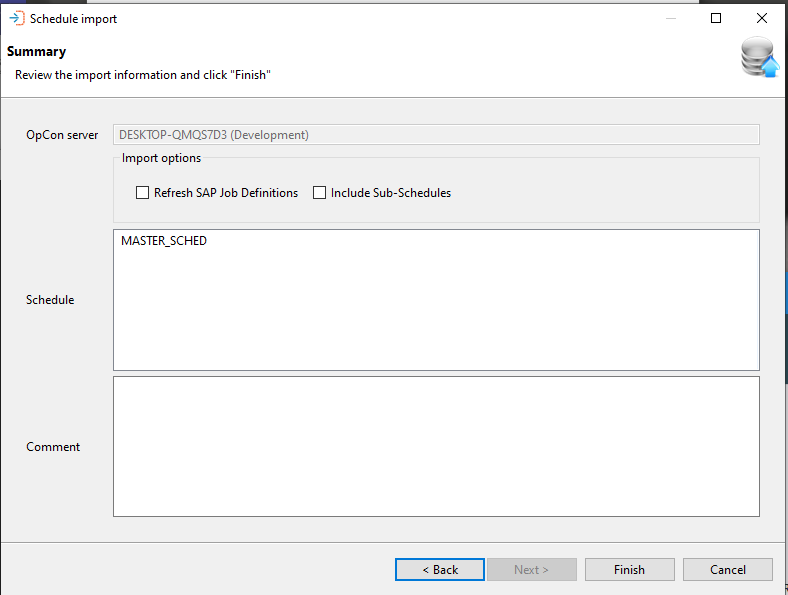
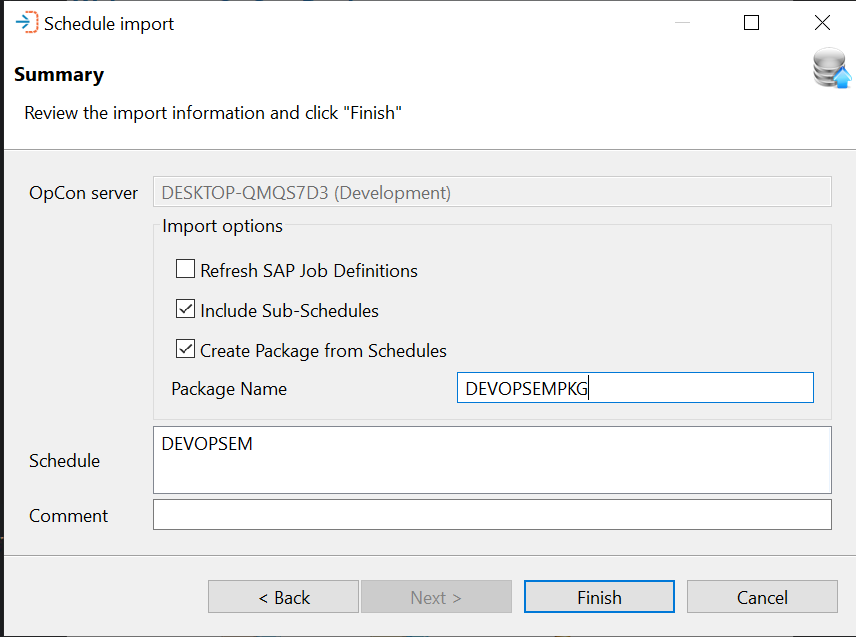
Deploy 25.1 documentation updates

Changed region(s): [[0.0, 0.0, 1.0, 1.0]]

diff --git a/docs/release-notes.md b/docs/release-notes.md
@@ -14,11 +14,42 @@ Deploy contains compatibility checks to ensure that features supported in newer 
 The ImpEx2 Server portion of Deploy is paired with each specific OpCon release and is part of the OpCon Release. Therefore the ImpEx2 
 server for each release is patched and released within the OpCon release cycles.   
 
+## Version 25.1
+
+2025 March
+
+**Migration Considerations**
+
+New rule **Exclude calendars from schedule deployment** removes calendar updates during the deployment process. The default value for the rule is false, so it will not have an impact on existing installations. Once this rule is enabled, the calendar definitions will no longer be included in the schedule definitions in the **calendarList** section.
+
+**New Features**
+
+:eight_spoked_asterisk: **OC-325**: Support new job type RPA. Due to the specific nature of the RPA scripts being associated with specific agents, the deploy process does not include the scripts in the deployment process.
+
+This requires 25.1.0 or greater.
+
+:eight_spoked_asterisk: **OPCDEPLOY-1398**: Added new fields on 'CheckInSummary' screen during schedule Import process to allow for the creation of a package from the selected schedules. The existing checkbox **Include Sub-Schedules** can be used to extract all sub-schedules associated with the selected schedules and included in the package.
+- **Create Package from Schedules** When selected creates a package from the list of imported schedules (requires Package Name).
+- **Package Name**                  The name of  the package to create.  
+
+:eight_spoked_asterisk: **OPCDEPLOY-1403**: Implemented new a new feature to prevent the update of calendars during the deployment process. 
+When this feature is enabled, calendars are no longer included in the schedule import and deployment processes. 
+
+For more information see **Exclude calendars from Schedule Deployment** rule in **settings** section.
+
+:eight_spoked_asterisk: **OPCDEPLOY-1405**: Added new argument '-noi' to Devops.SMAOpConDeployClient.exe client for the schedule and script EXPORT action. This option will prevent the exported schedule or script from being inserted into the Deploy database during the EXPORT action.
+
+:eight_spoked_asterisk: **OPCDEPLOY-1406**: Added new argument '-iss' to Devops.SMAOpConDeployClient.exe client for the schedule EXPORT action. This option will include all sub-schedules associated with the named schedule creating a single definition file containing all the schedules.
+
+**Fixes**
+
+:eight_spoked_asterisk: **OPCDEPLOY-1404**: Fixed a problem when using the Devops.SMAOpConDeployClient.exe client to deploy a schedule containing embedded scripts. During the deployment process the schedule and scripts are inserted into the Deploy database. When inserting the scripts into the Deploy database, a check for missing script versions is performed causing the NPE as there is no source OpCon system (source is DevOps repository). 
+
 ## Version 25.0
 
 2025 January
 
-**Migration COnsiderations**
+**Migration Considerations**
 
 This release of Deploy requires matching OpCon versions 25.0.0 and version 23.0.9 and 22.0.20. A special ImpEx2 patch for opCon 22.0.19 can be requested from support.
 

diff --git a/docs/administration/settings.md b/docs/administration/settings.md
@@ -57,10 +57,16 @@ When enabled, this rule will split the deployment of schedules and scripts.
 * Script definitions are no longer imported into the Deploy database during schedule import.
 * Script definitions are no longer deployed along with schedules / packages.
 
-When using this rule, script definitions must be imported and deployed separately using the SCripts Menu. Schedule definitions will only contain a reference to an embedded script in job definition.
+When using this rule, script definitions must be imported and deployed separately using the Scripts Menu. Schedule definitions will only contain a reference to an embedded script in job definition.
 There is also no attempt made to ensure that version numbers are consistent across OpCon systems.
 It is therefore up to the users to ensure that a script and its version is available during the deployment process. If the script, runner or version is not available in the target OpCOn database, the deployment will terminate with an appropriate error message.
 
 As the version numbering may be inconsistent across OpCon systems, it is suggested that the 'Latest Version' is used in the embedded script job definition.
 
 When the Script_Name transformation rule is used, the users must ensure that the required script is available in the script repository of target OpCon database. 
+
+### Exclude calendars from Schedule Deployment
+
+When enabled, this rule will prevent calendar updates during the deployment of schedules / packages. 
+* Calendar definitions are no longer imported into the Deploy database during schedule import.
+* Calendar definitions are no longer deployed along with schedules / packages.

diff --git a/docs/schedules.md b/docs/schedules.md
@@ -29,9 +29,10 @@ Once Next has been selected, the list of schedules will be retrieved from the ch
 ![Schedule Import Schedule Selection Image](../static/img/schedule-import-schedule-selection.png)
 
 Once Next has been selected, the selected schedule(s) will be displayed in the Schedule Import (Summary) dialog appears. This provides a summary of your selections, allows selection of import options and allows a description to be added to the import process.
-Supported IMport Options:
+Supported Import Options:
 - **Refresh SAP Job Definitions** indicates if OpCon SAP R3 jobs are encountered in the schedule, then the SAP server job definitions should be extracted from the SAP server (otherwise, uses values in 13100 and 13101 records).
 - **Include Sub-Schedules** indicates if container jobs are encountered in the schedule, the associated sub-schedule should be included in the import process. The schedules are checked recursively and each sub-schedule is imported as a separate schedule. The result of all schedule imports is displayed in the results message.
+- **Create Package from Schedules** indicates if a Deploy package should be created from the list of schedules. If selected, a package will be created using the **Package Name** field. If the package exists, a package update will be performed creating a new version of the package with the new schedule definition or the current schedule definition if the schedule version is already defined in the Deploy database.
 
 ![Schedule Import Summary Image](../static/img/schedule-import-summary.png)
 

diff --git a/docs/batch-devops-integration.md b/docs/batch-devops-integration.md
@@ -100,6 +100,13 @@ Devops.SMAOpConDeployClient.exe supports the following arguments:
 
 * Optional argument required for script EXPORT action. Defines the version of the script to export.
 
+**-iss**	
+
+* Optional argument for schedule EXPORT action. Extracts all sub-schedules associated with the named schedule and creates a single definition file containing all schedule definitions.
+
+**-noi**	
+
+* Optional argument for schedule and script EXPORT action. When present does not insert the exported definition into the Deploy database.
 
 ## Examples
 

diff --git a/docs/index.md b/docs/index.md
@@ -7,7 +7,7 @@ sidebar_label: 'OpCon Deploy'
 
 OpCon Deploy is a separate application working on a central repository that contains the schedule definitions, transformation rules, and all the required configuration information to deploy the schedule definitions between OpCon environments in a controlled and consistent manner.
 
-The current version is **25.0**.
+The current version is **25.1**.
 
 ## Overview
 
